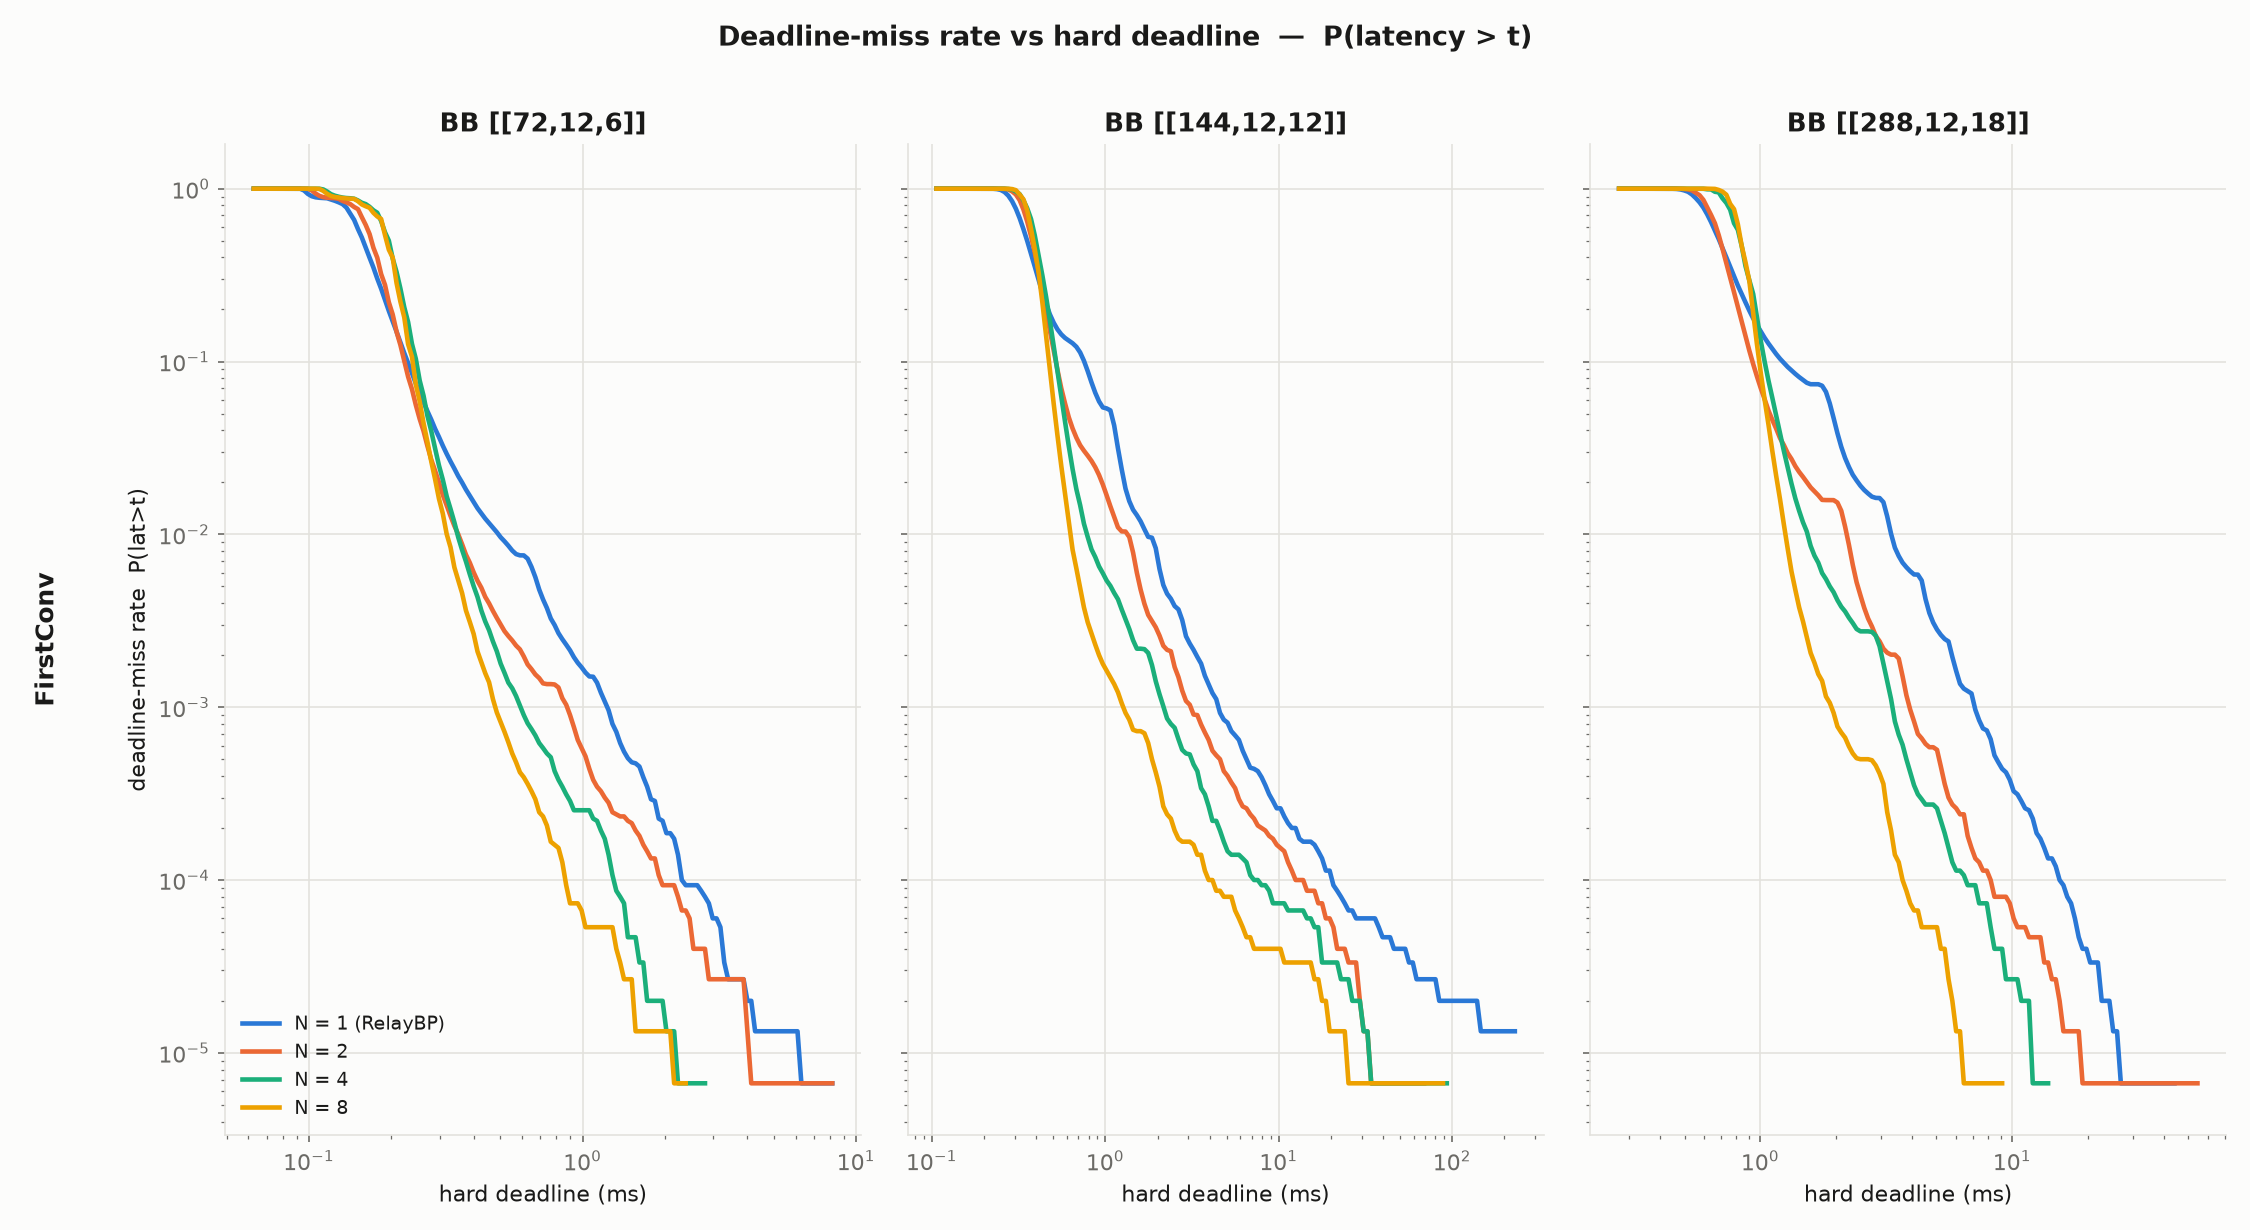
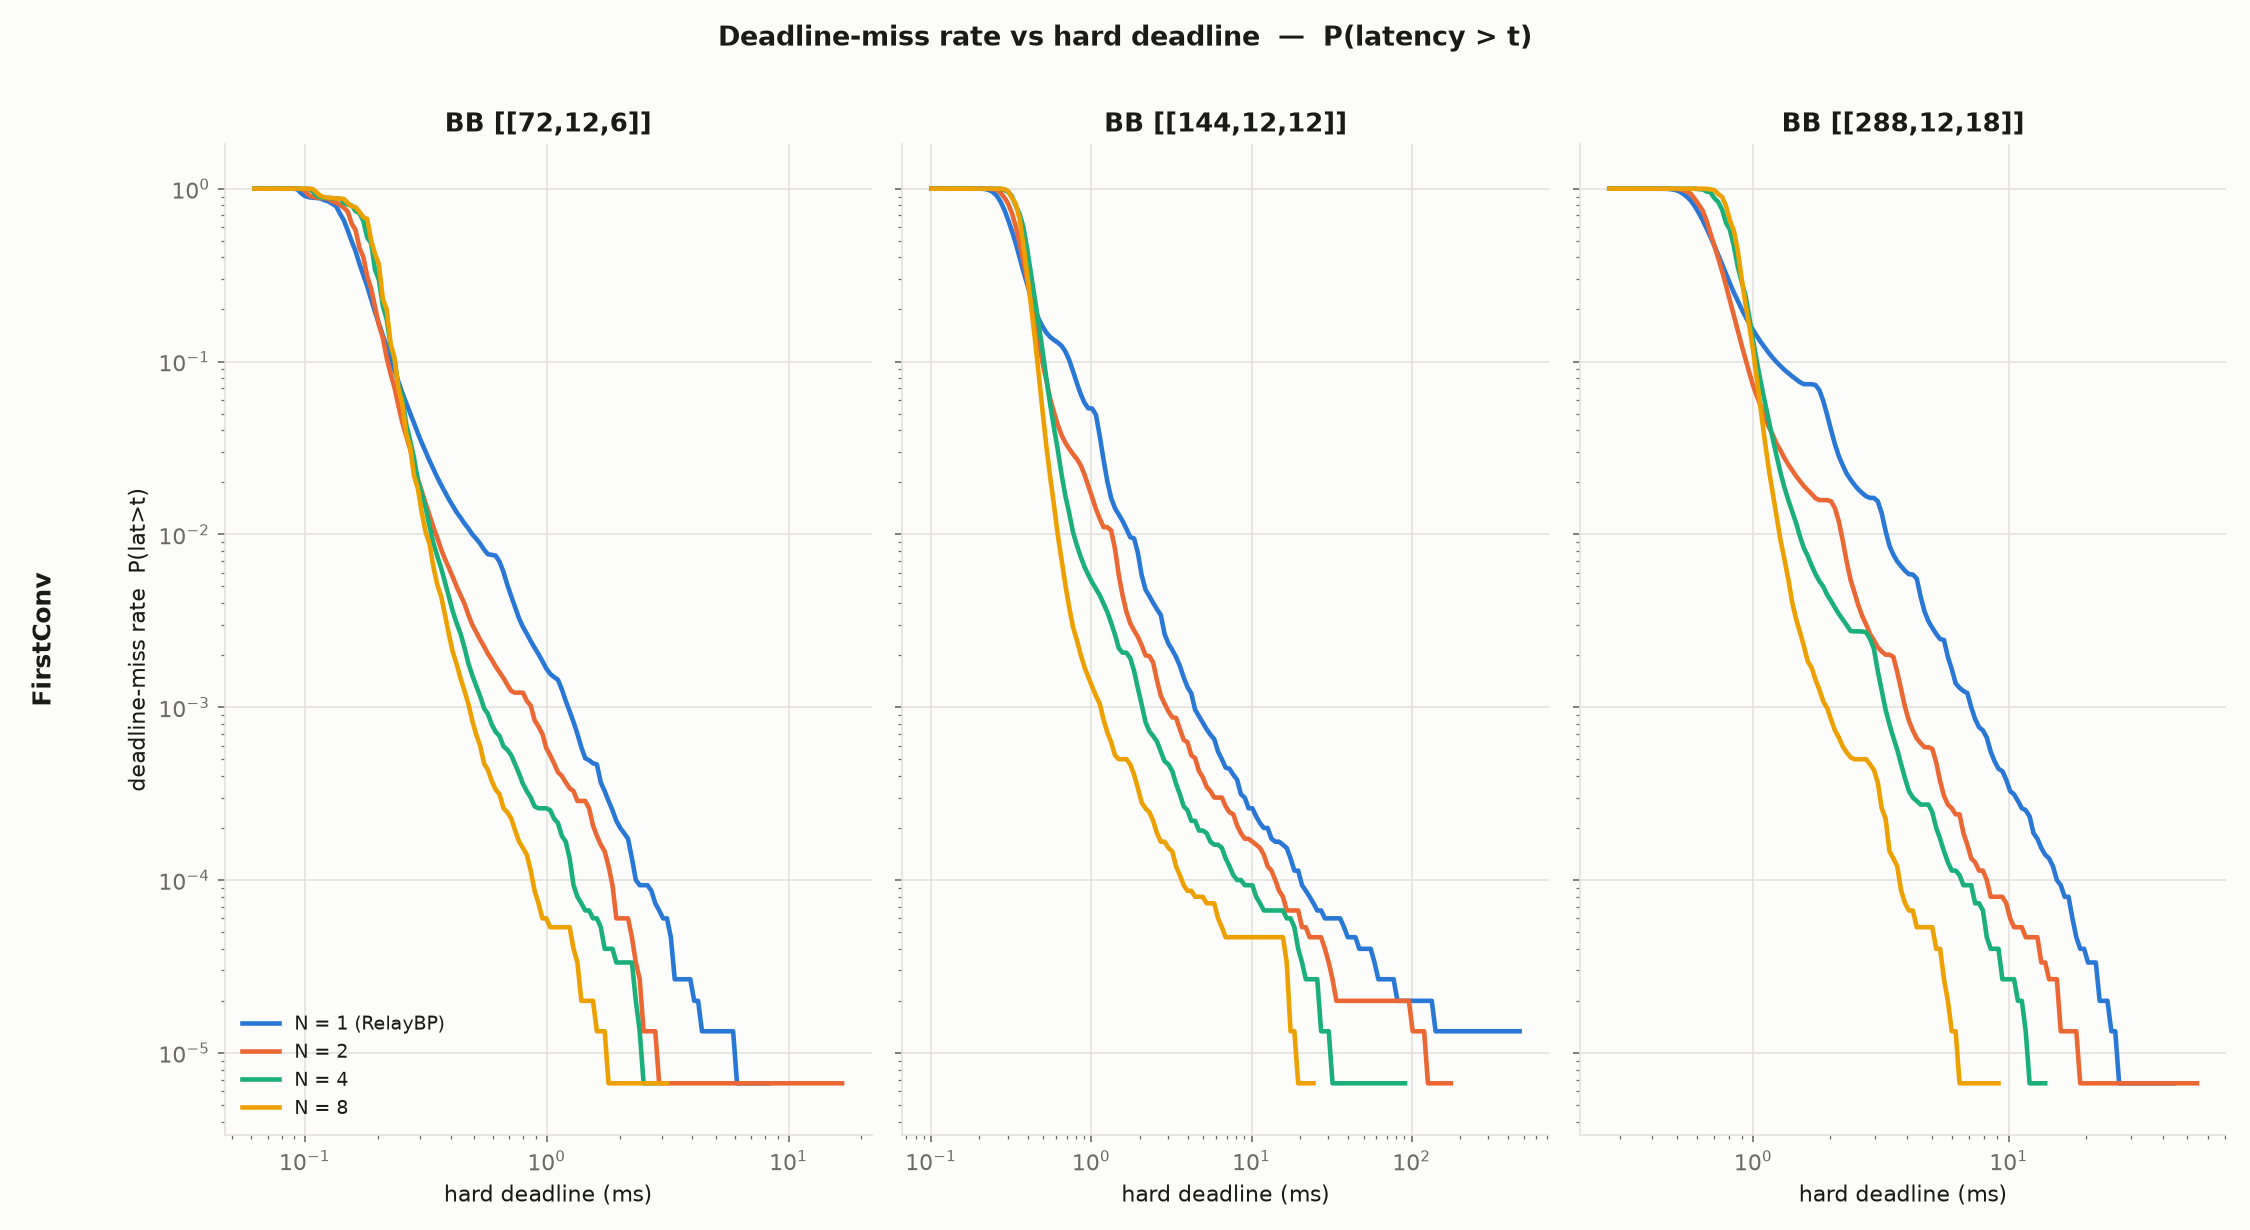
Stashing changes

diff --git a/docs/gamma_ensemble_plot_scripts/plot_bb.py b/docs/gamma_ensemble_plot_scripts/plot_bb.py
@@ -110,20 +110,20 @@ QS = [("p50", 50), ("p90", 90), ("p99", 99)]
 PC = {"p50": "#2a78d6", "p90": "#eb6834", "p99": "#1baf7a"}
 fig, axes = plt.subplots(1, len(ORDER), figsize=(5 * len(ORDER), 4.6), sharex=True)
 for ax, slug in zip(np.atleast_1d(axes), ORDER):
-    label, dem = Zr[f"{slug}__meta"][0], Zr[f"{slug}__meta"][1]
+    label = Zr[f"{slug}__meta"][0]
     for name, q in QS:
         ys = [np.percentile(Zr[f"{slug}__{CI}__N{N}__wall"], q) for N in NS]
         ax.plot(NS, ys, "-o", color=PC[name], lw=2, ms=7, mec=SURF, mew=1.2, label=name)
         ax.annotate(f"{ys[-1] / ys[0]:.2f}×", (NS[-1], ys[-1]), textcoords="offset points",
                     xytext=(7, 0), color=PC[name], fontsize=9, fontweight="bold", va="center")
-    ax.set_yscale("log"); ax.set_title(f"{label}  (Z-DEM {dem})", fontsize=11, fontweight="bold")
+    ax.set_yscale("log"); ax.set_title(f"{label}", fontsize=11, fontweight="bold")
     logN(ax); despine(ax)
 axes[0].legend(frameon=False, fontsize=11, title="percentile", title_fontproperties={"weight": "bold", "size": 10})
 fig.supylabel("latency (ms)", fontsize=11)
 fig.text(0.5, 0.012, f"Right-edge labels: each percentile at N={NS[-1]} relative to N=1",
          ha="center", fontsize=9, color=MUTED)
 fig.tight_layout(rect=[0, 0.05, 1, 1])
-fig.savefig(os.path.join(REP, "latency_percentiles.png"), dpi=150, facecolor=SURF)
+fig.savefig(os.path.join(REP, "relaybp_gamma_ensemble_perf.png"), dpi=150, facecolor=SURF)
 plt.close(fig)
 
 # ---------------- Figure 4: LER(t) under a hard deadline (2 x 4) ------------- #
@@ -164,4 +164,4 @@ fig.suptitle("Logical error rate vs hard deadline  —  LER(t) = P(latency > t o
 fig.tight_layout(rect=[0.02, 0, 1, 0.97])
 fig.savefig(os.path.join(DLD, "deadline_bb.png"), dpi=150, facecolor=SURF)
 plt.close(fig)
-print("wrote model_decomposition.png, latency_dist_p50p99_hist.png, latency_percentiles.png, deadline_bb.png (LER)")
+print("wrote model_decomposition.png, latency_dist_p50p99_hist.png, relaybp_gamma_ensemble_perf.png, deadline_bb.png (LER)")

diff --git a/docs/gamma_ensemble_plot_scripts/run_report_bb.py b/docs/gamma_ensemble_plot_scripts/run_report_bb.py
@@ -32,9 +32,9 @@ BB144_P = os.environ.get("BB144_P", "0.003")
 BB288_P = os.environ.get("BB288_P", "0.003")
 # (slug, label, kind, params, num_sets, gamma_dist)
 CODES = [
-    ("surf_d9_r9", "surface d=9, r=9", "surface", dict(d=9, r=9, p=SURF_P), 300, [-0.24, 0.66]),
-    ("bb72",  "BB [[72,12,6]]",   "bb", dict(tag="72,12,6",   p=BB72_P),  300, [-0.24, 0.66]),
-    ("bb144", "BB [[144,12,12]]", "bb", dict(tag="144,12,12", p=BB144_P), 300, [-0.24, 0.66]),
+    ("surf_d9_r9", "surface d=9, r=9", "surface", dict(d=9, r=9, p=SURF_P), 600, [-0.24, 0.66]),
+    ("bb72",  "BB [[72,12,6]]",   "bb", dict(tag="72,12,6",   p=BB72_P),  600, [-0.24, 0.66]),
+    ("bb144", "BB [[144,12,12]]", "bb", dict(tag="144,12,12", p=BB144_P), 600, [-0.24, 0.66]),
     ("bb288", "BB [[288,12,18]]", "bb", dict(tag="288,12,18", p=BB288_P), 600, [-0.161, 0.815]),
 ]
 

diff --git a/docs/sphinx/examples_rst/qec/nv_qldpc_ensemble_gamma_user_guide.rst b/docs/sphinx/examples_rst/qec/nv_qldpc_ensemble_gamma_user_guide.rst
@@ -17,7 +17,7 @@ While setting multiple lanes of ensembled gammas can reduce the number of RelayB
         use_sparsity=True, bp_method=3, composition=1, max_iterations=50,
         gamma0=0.125, gamma_dist=[-0.24, 0.66], clip_value=200.0, repeatable=True,
         proc_float="fp32", gamma_ensemble_size=N,    # sweep N in {1, 2, 4, 8}
-        srelay_config={"pre_iter": 1, "num_sets": 300,
+        srelay_config={"pre_iter": 1, "num_sets": 600,
                        "stopping_criterion": "FirstConv"},
         opt_results={"num_iter": True})              # return the iteration count
 
@@ -25,42 +25,27 @@ While setting multiple lanes of ensembled gammas can reduce the number of RelayB
         result = decoder.decode(syndrome)            # timed for the per-iteration cost
         num_iter = result.opt_results["num_iter"]    # RelayBP iterations to converge
 
-All experiments below use the same circuit-level noise and decoder settings, so they can be reproduced directly. The bicycle-code DEMs use uniform circuit-level noise at ``p = 0.002`` for all three codes (with ``r = 6``, ``12`` and ``18`` rounds for ``[[72,12,6]]``, ``[[144,12,12]]`` and ``[[288,12,18]]`` respectively). The decoder is constructed as shown above with ``gamma0 = 0.125`` and ``proc_float = "fp32"`` for all codes, using ``num_sets = 300`` and ``gamma_dist = [-0.24, 0.66]`` for ``[[72,12,6]]`` and ``[[144,12,12]]``, and ``num_sets = 600`` with ``gamma_dist = [-0.161, 0.815]`` for ``[[288,12,18]]``.
+All experiments below use the same circuit-level noise and decoder settings, so they can be reproduced directly. The bicycle-code DEMs use uniform circuit-level noise at ``p = 0.002`` for all three codes (with ``r = 6``, ``12`` and ``18`` rounds for ``[[72,12,6]]``, ``[[144,12,12]]`` and ``[[288,12,18]]`` respectively). The decoder is constructed as shown above with ``gamma0 = 0.125``, ``proc_float = "fp32"`` and ``num_sets = 600`` for all codes, using ``gamma_dist = [-0.24, 0.66]`` for ``[[72,12,6]]`` and ``[[144,12,12]]`` and ``gamma_dist = [-0.161, 0.815]`` for ``[[288,12,18]]``.
 
 .. image:: ../../images/model_decomposition.png
    :align: center
    :alt: Iterations to converge, time per iteration, and mean latency versus ensemble size, for several DEMs
 
-As the ensemble size N grows, the median number of iterations to converge (left) falls for every code — more lanes explore more gamma sets in parallel, so the fastest-converging one wins sooner. At N = 8 the median iteration count drops to 0.67×–0.71× of its single-lane value across the three codes. The time per iteration (middle) rises with N — each lane's parity-check rows are spread over co-resident GPU blocks, so a lane must serially process more work per iteration — growing to 1.53×–1.66× at N = 8, largest for the ``[[288,12,18]]`` DEM. The net mean decode latency (right) combines the two effects; here the higher per-iteration cost roughly cancels the iteration savings, so mean latency stays close to its single-lane value at N = 8, ranging from 0.87× to 1.11×.
+As the ensemble size N grows, the median number of iterations to converge (left) falls for every code — more lanes explore more gamma sets in parallel, so the fastest-converging one wins sooner. At N = 8 the median iteration count drops to 0.67×–0.71× of its single-lane value across the three codes. The time per iteration (middle) rises with N — each lane's parity-check rows are spread over co-resident GPU blocks, so a lane must serially process more work per iteration — growing to 1.53×–1.66× at N = 8, largest for the ``[[288,12,18]]`` DEM. The net mean decode latency (right) combines the two effects; here the higher per-iteration cost roughly cancels the iteration savings, so mean latency stays close to its single-lane value at N = 8, ranging from 0.88× to 1.10×.
 
-Ensembling also lowers the logical error rate achievable under a hard decoding deadline. Suppose each decode must finish within a wall-clock budget ``t``; a decode is a success only if it both finishes within ``t`` and returns the correct logical outcome, so the logical error rate under that deadline is ``LER(t) = P(latency > t or logical error)``. Using the same decoders as above, we record both the per-syndrome latency and whether the decoded logical is correct:
-
-.. code-block:: python
-
-    import time
-
-    latencies, logical_errors = [], []
-    for syndrome, truth in zip(syndromes, true_logicals):   # `decoder` as constructed above
-        t0 = time.perf_counter()
-        result = decoder.decode(syndrome)
-        latencies.append(1e3 * (time.perf_counter() - t0))  # per-syndrome latency, ms
-        logical_errors.append(logical_flips(result) != truth)
-
-    # LER at deadline t: missed the deadline, or decoded to the wrong logical
-    def ler(t):
-        return np.mean([(lat > t) or err for lat, err in zip(latencies, logical_errors)])
+Ensembling also lowers the logical error rate achievable under a hard decoding deadline. Suppose each decode must finish within a wall-clock budget ``t``; a decode is a success only if it both finishes within ``t`` and returns the correct logical outcome, so the logical error rate under that deadline is ``LER(t) = P(latency > t or logical error)``. Using the same decoders as above, we record both the per-syndrome latency and whether the decoded logical is correct:>
 
 .. image:: ../../images/ler_multiplier.png
    :align: center
    :alt: LER improvement multiplier over regular RelayBP (N=1) versus hard deadline, per code
 
-The plot shows, for each code, the factor by which each ensemble size lowers LER relative to regular RelayBP (N = 1) as a function of the deadline ``t``; values above 1 mean a lower LER than N = 1. At the tightest deadlines the larger ensembles are briefly worse (their higher per-iteration cost delays the fastest decodes), but past that crossover a larger ensemble lowers LER substantially — by up to ~34× for ``[[144,12,12]]`` and ~89× for ``[[288,12,18]]`` near their knees. For those two codes the multiplier then falls back toward 1× at loose deadlines, where both the ensemble and N = 1 reach their near-zero logical error floors; for ``[[72,12,6]]`` it settles at ~2×, the ratio of the logical error floors.
+The plot shows, for each code, the factor by which each ensemble size lowers LER relative to regular RelayBP (N = 1) as a function of the deadline ``t``; values above 1 mean a lower LER than N = 1. At the tightest deadlines the larger ensembles are briefly worse (their higher per-iteration cost delays the fastest decodes), but past that crossover a larger ensemble lowers LER substantially — by up to ~41× for ``[[144,12,12]]`` and ~89× for ``[[288,12,18]]`` near their knees. For those two codes the multiplier then falls back toward 1× at loose deadlines, where both the ensemble and N = 1 reach their near-zero logical error floors; for ``[[72,12,6]]`` it settles at ~2×, the ratio of the logical error floors.
 
-.. image:: ../../images/latency_percentiles.png
+.. image:: ../../images/relaybp_gamma_ensemble_perf.png
    :align: center
    :alt: Latency percentiles (p50, p90, p99) versus ensemble size N, per code
 
-The worst-case (i.e. p99) latency improves with N for every code — at N = 8 it improves by ~1.55× for ``[[72,12,6]]``, ~2.75× for ``[[144,12,12]]`` and ~2.65× for ``[[288,12,18]]``. The median (p50) rises with N (by ~1.09×–1.22× at N = 8), as the per-iteration overhead is paid on decodes that would have converged quickly anyway. Ignoring logical errors, the same hard deadline defines the deadline-miss rate — the fraction of decodes not converged within the budget ``t``. The plot below shows this rate versus deadline for regular RelayBP (N = 1) and for each ensemble size N; each curve is measured over 150,000 sampled syndromes per configuration at the circuit-level noise strength given above (``p = 0.002``) with ``max_iterations = 50`` (and ``num_sets = 300`` for ``[[72,12,6]]`` and ``[[144,12,12]]``, ``600`` for ``[[288,12,18]]``), using the ``FirstConv`` stopping criterion.
+The worst-case (i.e. p99) latency improves with N for every code — at N = 8 it improves by ~1.55× for ``[[72,12,6]]``, ~2.75× for ``[[144,12,12]]`` and ~2.65× for ``[[288,12,18]]``. The median (p50) rises with N (by ~1.12×–1.23× at N = 8), as the per-iteration overhead is paid on decodes that would have converged quickly anyway. Ignoring logical errors, the same hard deadline defines the deadline-miss rate — the fraction of decodes not converged within the budget ``t``. The plot below shows this rate versus deadline for regular RelayBP (N = 1) and for each ensemble size N; each curve is measured over 150,000 sampled syndromes per configuration at the circuit-level noise strength given above (``p = 0.002``) with ``max_iterations = 50`` and ``num_sets = 600``, using the ``FirstConv`` stopping criterion.
 
 .. image:: ../../images/deadline_bb.png
    :align: center
